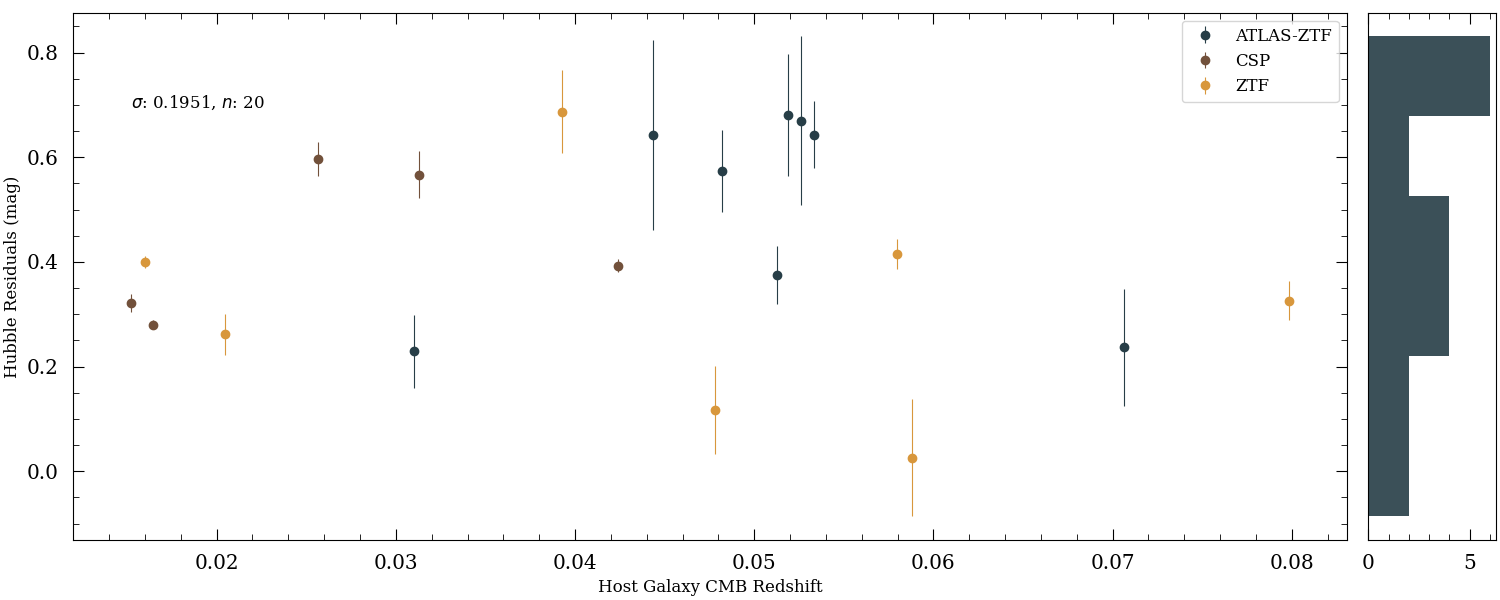
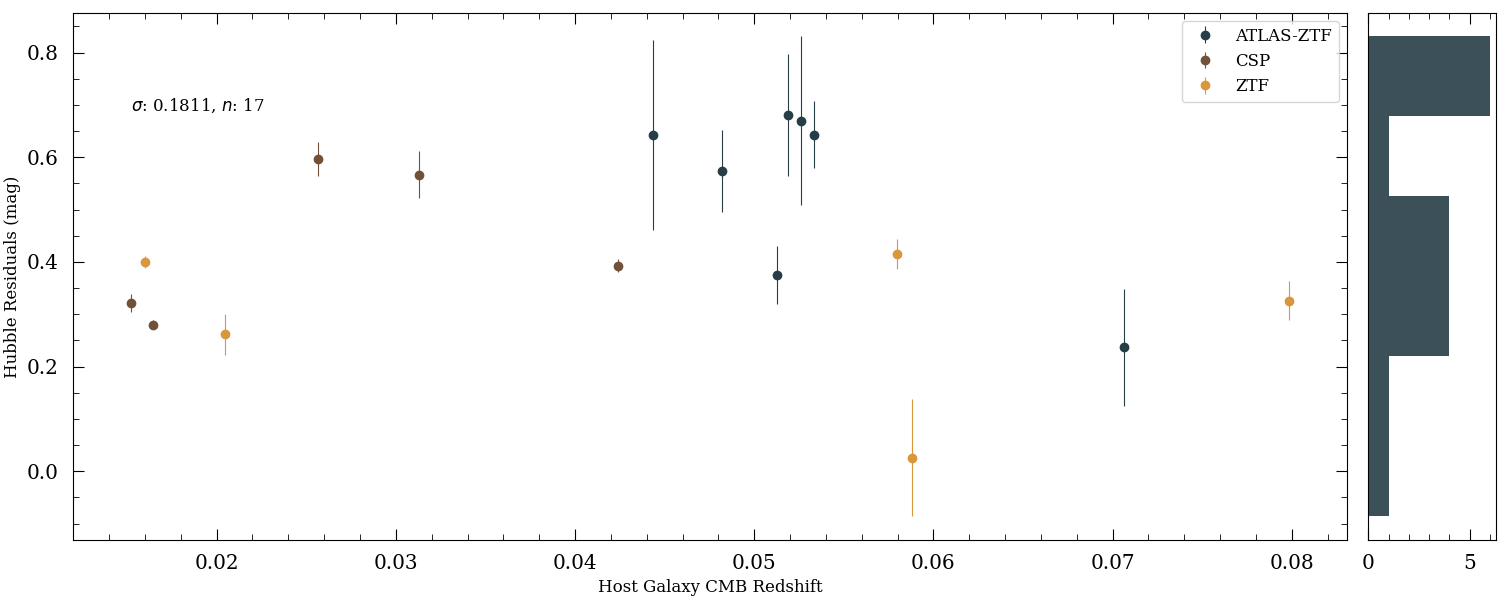
updates

diff --git a/verthandi.py b/verthandi.py
@@ -20,7 +20,7 @@ from astropy.stats import sigma_clip, sigma_clipped_stats
 
 from scripts import general as gen
 from scripts.salt3_param_fitter import optimize_alpha_beta
-from scripts import get_vpec  # Loads heavy data so if not activly fitting I would comment this out
+# from scripts import get_vpec  # Loads heavy data so if not activly fitting I would comment this out
 
 CONSTANTS = gen.get_constants()
 CURRENTDATE = datetime.datetime.now()
@@ -1102,8 +1102,8 @@ def sample_cutter(path: str, algo: str = 'snpy', save_loc: str = ''):
                     (data[:, hdr.index('mu_err')].astype(float) < cuts['mu_err'])]
     elif algo == 'salt':
         print('[+++] Cutting sample for SALT data...')
-        cuts = {'z': 0.015, 'c': (-0.6, 0.6), 'x1': (-4.5, 4.5), 'c_err': 0.1, 'x1_err': 1, 't0_err': 1, 'mu_err': 0.2}
-        # cuts = {'z': 0.015, 'c': (0.1, 999), 'x1': (-4.5, 4.5), 'c_err': 0.1, 'x1_err': 1, 't0_err': 1, 'mu_err': 0.2}
+        # cuts = {'z': 0.015, 'c': (-0.6, 0.6), 'x1': (-4.5, 4.5), 'c_err': 0.1, 'x1_err': 1, 't0_err': 1, 'mu_err': 0.2}
+        cuts = {'z': 0.015, 'c': (-0.6, 0.6), 'x1': (-3.2, 3.2), 'c_err': 0.1, 'x1_err': 1, 't0_err': 1, 'mu_err': 0.2}
         f_out = '      | '
         for c in cuts:
             f_out += c + ': ' + str(cuts[c]) + ' | '
@@ -1138,7 +1138,19 @@ def sample_cutter(path: str, algo: str = 'snpy', save_loc: str = ''):
     with open(save_loc, 'w') as f:
         # Info
         f.write(f'# Created by M.D. Woods -- {CURRENTDATE} -- HUBBLE RESID STD: {std}\n')
-        f.write(f'# {cuts}\n')
+        f.write(f'# Cuts: {cuts}\n')
+
+        # Useful Stats
+        if algo == 'snpy':
+            f.write(f"# Avg. 'EBVhost': {np.average(data[:, hdr.index('EBVhost')].astype(float))} +/- "
+                    f"{np.average(data[:, hdr.index('EBVhost_err')].astype(float))}\n")
+            f.write(f"# Avg. 'st': {np.average(data[:, hdr.index('st')].astype(float))} +/- "
+                    f"{np.average(data[:, hdr.index('st_err')].astype(float))}\n")
+        elif algo == 'salt':
+            f.write(f"# Avg. 'c': {np.average(data[:, hdr.index('c')].astype(float))} +/- "
+                    f"{np.average(data[:, hdr.index('c_err')].astype(float))}\n")
+            f.write(f"# Avg. 'x1': {np.average(data[:, hdr.index('x1')].astype(float))} +/- "
+                    f"{np.average(data[:, hdr.index('x1_err')].astype(float))}\n")
 
         # Header
         f_out = hdr[0]
@@ -1566,18 +1578,52 @@ def resid_v_mass_colormap(path: str, param: str, title: str = '', cuts: list = [
         plt.savefig(save_loc)
     plt.show()
     return
-def param_hist(hicat_params_file: str, norm_params_file: str, algo: str, type: str, save_loc: str = '',
-    sigma: float = 3.0, st_width: float = 0.04, c_width: float = 0.04):
+def mass_step_v_c():
+    # hdr, data = gen.default_open('output/combiend__salt_params_cut.txt')
+    # hdr, data = gen.default_open('output/combiend__salt_params.txt')
+    hdr, data = gen.default_open('output/panthplus_params_cut.txt')
+
+    mass, mu = data[:, hdr.index('hostMass')].astype(float), data[:, hdr.index('mu')].astype(float)
+    z = data[:, hdr.index('z')].astype(float)
+    c = data[:, hdr.index('c')].astype(float)
+    mass_err, mu_err = data[:, hdr.index('hostMass_err')].astype(float), data[:, hdr.index('mu_err')].astype(float)
+    resid = gen.get_resid(mu, z)
+
+    # all_gamma, all_c_bin = [], []
+    # num_bins = 30
+    # c_sort = np.arange(np.min(np.sort(c)), np.max(np.sort(c)), np.max(np.sort(c))/(num_bins+1))
+    # for i in range(len(c_sort) - 1):
+    #     indexes = np.where((c > c_sort[i]) & (c < c_sort[i+1]))[0]
+    #     gamma, cut_dict = mass_step_calc(mu[indexes], mu_err[indexes], resid[indexes], mass[indexes], z[indexes], cut=10)
+    #     print(f"{gamma['value']} +/- {gamma['err']}")
+    #     all_gamma.append(gamma['value'])
+    #     all_c_bin.append(c_sort[i])
+    #
+    # plt.scatter(all_c_bin, all_gamma)
+    # plt.show()
+
+    hist, bins = np.histogram(c, bins=9)
+    print(hist[0])
+
+
+
+
+
+
+    return
+def param_hist(hicat_params_file: str, norm_params_file: str, algo: str, line_type: str, save_loc: str = '',
+    sigma: float = 3.0, st_width: float = 0.04, c_width: float = 0.04, norm_factor: int = 1):
     """
     Histogram of the SNooPy paramaters of 91bg-like vs. normal SNe Ia
     :param hicat_params_file: str; location of 91bg-like paramaters
     :param norm_params_file: str; location of normal paramaters
     :param algo: str; algo of histogram to generate
     :param save_loc: str = '';
-    :param type: str = 'median' or 'average';
+    :param line_type: str = 'median' or 'average';
     :param sigma: float = 3.0;
     :param st_width: float = 0.02;
     :param c_width: float = 0.02;
+    :param norm_factor: int = 1;
     """
     # Open data
     hicat_hdr, hicat_data = gen.default_open(hicat_params_file)
@@ -1586,33 +1632,35 @@ def param_hist(hicat_params_file: str, norm_params_file: str, algo: str, type: s
     # Select Algo
     if algo == 'snpy':
         param_dict = {'stretch': 'st', 'color': 'EBVhost'}
+        param_dict_display = {'stretch': '$s_{BV}$', 'color': '$E(B-V)_{host}$'}
     elif algo == 'salt':
         param_dict = {'stretch': 'x1', 'color': 'c'}
+        param_dict_display = {'stretch': '$x_1$', 'color': '$c$'}
     else:
         raise ValueError(f"[!!!] '{algo}' is invalid; choose between 'snpy' or 'salt'")
 
     fig, ax = plt.subplots(1, 2, figsize=(16, 4), constrained_layout=True)
 
-    # Stretch plot
-    st_norm = sigma_clip(norm_data[:, norm_hdr.index(param_dict['stretch'])].astype(float), sigma=sigma)
-    st_hicat = sigma_clip(hicat_data[:, hicat_hdr.index(param_dict['stretch'])].astype(float), sigma=sigma)
-    st_norm_err = sigma_clip(norm_data[:, norm_hdr.index(param_dict['stretch']+'_err')].astype(float), sigma=sigma)
-    st_hicat_err = sigma_clip(hicat_data[:, hicat_hdr.index(param_dict['stretch']+'_err')].astype(float), sigma=sigma)
-    ax[0].hist(st_norm, int((np.max(st_norm) - np.min(st_norm)) / st_width), label='Normal', color='#5AD2F4')
-    ax[0].hist(st_hicat, int((np.max(st_hicat) - np.min(st_hicat)) / st_width), label='91bg', color='#62BEC1', alpha=0.75)
-    ax[0].set_title(f"Stretch [{param_dict['stretch']}]")
+    # Stretch arrays
+    st_norm = sigma_clip(norm_data[:, norm_hdr.index(param_dict['stretch'])].astype(float), sigma=sigma, masked=False)
+    st_hicat = sigma_clip(hicat_data[:, hicat_hdr.index(param_dict['stretch'])].astype(float), sigma=sigma, masked=False)
+    st_norm_err = sigma_clip(norm_data[:, norm_hdr.index(param_dict['stretch']+'_err')].astype(float), sigma=sigma, masked=False)
+    st_hicat_err = sigma_clip(hicat_data[:, hicat_hdr.index(param_dict['stretch']+'_err')].astype(float), sigma=sigma, masked=False)
 
-    # Color plot
-    c_norm = sigma_clip(norm_data[:, norm_hdr.index(param_dict['color'])].astype(float), sigma=sigma)
-    c_hicat = sigma_clip(hicat_data[:, hicat_hdr.index(param_dict['color'])].astype(float), sigma=sigma)
-    c_norm_err = sigma_clip(norm_data[:, norm_hdr.index(param_dict['color']+'_err')].astype(float), sigma=sigma)
-    c_hicat_err = sigma_clip(hicat_data[:, hicat_hdr.index(param_dict['color']+'_err')].astype(float), sigma=sigma)
-    ax[1].hist(c_norm, int((np.max(c_norm) - np.min(c_norm)) / c_width), label='Normal', color='#5AD2F4')
+    # Color arrays
+    c_norm = sigma_clip(norm_data[:, norm_hdr.index(param_dict['color'])].astype(float), sigma=sigma, masked=False)
+    c_hicat = sigma_clip(hicat_data[:, hicat_hdr.index(param_dict['color'])].astype(float), sigma=sigma, masked=False)
+    c_norm_err = sigma_clip(norm_data[:, norm_hdr.index(param_dict['color']+'_err')].astype(float), sigma=sigma, masked=False)
+    c_hicat_err = sigma_clip(hicat_data[:, hicat_hdr.index(param_dict['color']+'_err')].astype(float), sigma=sigma, masked=False)
+
+    # Plot data
+    ax[0].hist(st_norm, norm_factor*int((np.max(st_norm) - np.min(st_norm)) / st_width), label='Normal', color='#5AD2F4')
+    ax[0].hist(st_hicat, int((np.max(st_hicat) - np.min(st_hicat)) / st_width), label='91bg', color='#62BEC1', alpha=0.75)
+    ax[1].hist(c_norm, norm_factor*int((np.max(c_norm) - np.min(c_norm)) / c_width), label='Normal', color='#5AD2F4')
     ax[1].hist(c_hicat, int((np.max(c_hicat) - np.min(c_hicat)) / c_width), label='91bg', color='#62BEC1', alpha=0.75)
-    ax[1].set_title(f"Color [{param_dict['color']}]")
 
     # Plot labels
-    if type == 'median':
+    if line_type == 'median':
         ax[0].axvline(x=np.median(st_norm),
                       label=r'$\tilde{x}_{Normal}$ = ' + str(round(np.median(st_norm), 2))+' $\pm$ '+str(round(np.median(st_norm_err), 3)),
                       linewidth=2.5, color='#4bb0cc', linestyle='--')
@@ -1625,7 +1673,7 @@ def param_hist(hicat_params_file: str, norm_params_file: str, algo: str, type: s
         ax[1].axvline(x=np.median(c_hicat),
                       label=r'$\tilde{x}_{91bg}$ = '+str(round(np.median(c_hicat), 2))+' $\pm$ '+str(round(np.median(c_hicat_err), 3)),
                       linewidth=2.5, color='#52a1a3', linestyle=':')
-    elif type == 'average':
+    elif line_type == 'average':
         ax[0].axvline(x=np.average(st_norm),
                       label=r'$\tilde{x}_{Normal}$ = ' + str(round(np.average(st_norm), 2))+' $\pm$ '+str(round(np.average(st_norm_err), 3)),
                       linewidth=2.5, color='#4bb0cc', linestyle='--')
@@ -1639,10 +1687,15 @@ def param_hist(hicat_params_file: str, norm_params_file: str, algo: str, type: s
                       label=r'$\tilde{x}_{91bg}$ = '+str(round(np.average(c_hicat), 2))+' $\pm$ '+str(round(np.average(c_hicat_err), 3)),
                       linewidth=2.5, color='#52a1a3', linestyle=':')
     else:
-        raise ValueError(f"[!!!] '{type}' is invalid; choose between 'median' or 'average'")
+        raise ValueError(f"[!!!] '{line_type}' is invalid; choose between 'median' or 'average'")
+
+    # Plot details
+
+    ax[0].set_xlabel(f"Stretch [{param_dict_display['stretch']}]")
+    ax[1].set_xlabel(f"Color [{param_dict_display['color']}]")
+    ax[1].get_yaxis().set_visible(False)  # Turn off y-axis labels
     ax[0].legend()
     ax[1].legend()
-
 
     if len(save_loc) > 0:
         plt.savefig(save_loc, dpi=300)
@@ -1887,6 +1940,10 @@ def format_panthplus(path: str = 'txts/PanPlus_Latest.FITRES', save_loc: str = '
     # Write to new file
     with open(save_loc, 'w') as f:
         f.write(f'# Created by M.D. Woods -- {CURRENTDATE} -- NUM TARGETS: {len(data[:, 0])}\n')
+        f.write(f"# Avg. 'c': {np.average(data[:, hdr.index('c')].astype(float))} +/- "
+                f"{np.average(data[:, hdr.index('cERR')].astype(float))}\n")
+        f.write(f"# Avg. 'x1': {np.average(data[:, hdr.index('x1')].astype(float))} +/- "
+                f"{np.average(data[:, hdr.index('x1ERR')].astype(float))}\n")
         f.write(f'objname, ra, dec, z, z_cmb, MJDs, MJDe, origin, mu, mu_err, x1, x1_err, t0, t0_err, c, c_err, chisquare, chisquare_err, hostMass, hostMass_err\n')
         for i in range(len(data[:, 0])):
             f.write(f"{data[i, hdr.index('CID')]}, "
@@ -1918,6 +1975,10 @@ def format_dr3(path: str = 'txts/DR3_fits.dat', save_loc: str = 'output/dr3_para
     # Write to file
     with open(save_loc, 'w') as f:
         f.write(f'# Created by M.D. Woods -- {CURRENTDATE} -- NUM TARGETS: {len(data[:, 0])}\n')
+        f.write(f"# Avg. 'EBVhost': {np.average(data[:, hdr.index('EBVhost')].astype(float))} +/- "
+                f"{np.average(data[:, hdr.index('e_EBVhost')].astype(float))}\n")
+        f.write(f"# Avg. 'st': {np.average(data[:, hdr.index('st')].astype(float))} +/- "
+                f"{np.average(data[:, hdr.index('e_st')].astype(float))}\n")
         f.write(f'objname, z, z_cmb, origin, st, st_err, Tmax, Tmax_err, EBVhost, EBVhost_err\n')
         for i in range(len(data[:, 0])):
             f.write(f"{data[i, hdr.index('SN')]}, "
@@ -1949,7 +2010,7 @@ def main(fit_type: str, data_set: str = '', path: str = '', algo: str = '', save
          dmag_max: float = 0.00, dflux_max: float = 0.00) -> list[object]:
     """
     A function to easily fit data using both algorithms.
-    :param fit_type: str; type of fitting protocol to use
+    :param fit_type: str; line_type of fitting protocol to use
     :param data_set = '': str; name of data set
     :param algo = '': str; algorithms to fit data with (snpy/salt)
     :param path = '': str; data location for individual fits (only call for fit_type='indv')
@@ -1973,7 +2034,7 @@ def main(fit_type: str, data_set: str = '', path: str = '', algo: str = '', save
                            dmag_max=dmag_max, dflux_max=dflux_max)
     else:
         raise ValueError(
-            "Invalid type selected ['indv'/'batch'/'combined']")
+            "Invalid line_type selected ['indv'/'batch'/'combined']")
 
     # Saving
     if fit_type != 'indv' and len(SNe) != 0:
@@ -1992,6 +2053,11 @@ def refresh_all(new_data: bool = False):
         norm_fit('snpy', 'output/norm_snpy_params.txt', dmag_max=1.00)
         norm_fit('salt', 'output/norm_salt_params.txt', dmag_max=1.00)
 
+    # Fix normal files
+    format_dr3()
+    format_panthplus()
+    sample_cutter('output/panthplus_params.txt', 'salt')
+
     # Merge raw files
     merged_options('output/combiend__snpy_params.txt',
                    'output/combiend__salt_params.txt',
@@ -2001,15 +2067,15 @@ def refresh_all(new_data: bool = False):
                    'output/norm_merged_params.txt')
 
     # Make sure most recent cuts are applied
-    sample_cutter('output/combiend__snpy_params.txt', 'snpy')
-    sample_cutter('output/combiend__salt_params.txt', 'salt')
+    sample_cutter('output/combiend__snpy_params.txt', 'snpy', 'output/combiend__snpy_params_cut.txt')
+    sample_cutter('output/combiend__salt_params.txt', 'salt', 'output/combiend__salt_params_cut.txt')
     merged_options('output/combiend__snpy_params_cut.txt',
                    'output/combiend__salt_params_cut.txt',
                    'output/merged_params_cut.txt')
-    sample_cutter('output/norm_snpy_params.txt', 'snpy')
-    sample_cutter('output/norm_salt_params.txt', 'salt')
-    merged_options('output/norm_snpy_params.txt',
-                   'output/norm_salt_params.txt',
+    sample_cutter('output/norm_snpy_params.txt', 'snpy', 'output/norm_snpy_params_cut.txt')
+    sample_cutter('output/norm_salt_params.txt', 'salt', 'output/norm_salt_params_cut.txt')
+    merged_options('output/norm_snpy_params_cut.txt',
+                   'output/norm_salt_params_cut.txt',
                    'output/norm_merged_params_cut.txt')
 
     # Update Mass Plots
@@ -2038,20 +2104,18 @@ def refresh_all(new_data: bool = False):
               # title = 'Hubble Residual v. CMB Redshift of CSP-ATLAS-ZTF 91bg-like SNe Ia [SALT3-SNooPy]',
 
     # Update Histograms
-    param_hist('output/combiend__snpy_params_cut.txt',
-               'output/norm_snpy_params_cut.txt',
-               algo='snpy', type='median', st_width=0.04, c_width=0.04,
+    param_hist('output/combiend__snpy_params.txt',
+               'output/dr3_params.txt',
+               algo='snpy', line_type='median', st_width=0.04, c_width=0.04, norm_factor=1,
                save_loc='saved/readme_plots/snpy_params_hicat_v_dr3.png')
-    param_hist('output/combiend__salt_params_cut.txt',
-               'output/norm_salt_params_cut.txt',
-               algo='salt', type='median', st_width=0.3, c_width=0.08,
-               save_loc='saved/readme_plots/salt_params_hicat_v_dr3.png')
+    param_hist('output/combiend__salt_params.txt',
+               'output/norm_salt_params.txt',
+               algo='salt', line_type='median', st_width=0.3, c_width=0.08, norm_factor=2,
+               save_loc='saved/readme_plots/salt_params_hicat_v_normcsp.png')
     return
 
 if __name__ == '__main__':
     start = systime.time()  # Runtime tracker
-
-    # format_dr3()
 
     refresh_all()
     print('|---------------------------|\n Run-time: ', round(systime.time() - start, 4), 'seconds\n|---------------------------|')

diff --git a/README.md b/README.md
@@ -48,8 +48,9 @@ This plot depicts the relationship between the redshift of the SN and the corres
 --------------------------
 ### Parameter Histograms
 ![](saved/readme_plots/snpy_params_hicat_v_dr3.png "")
-![](saved/readme_plots/salt_params_hicat_v_dr3.png "")
-![](saved/readme_plots/allparam_cornerPlot.png "")
+![](saved/readme_plots/salt_params_hicat_v_panthplus.png "")
+
+[//]: # (![]&#40;saved/readme_plots/allparam_cornerPlot.png ""&#41;)
 
 Corner Plot of SNooPy Parameters
 ![](saved/readme_plots/snpy_cornerPlot.png "")
